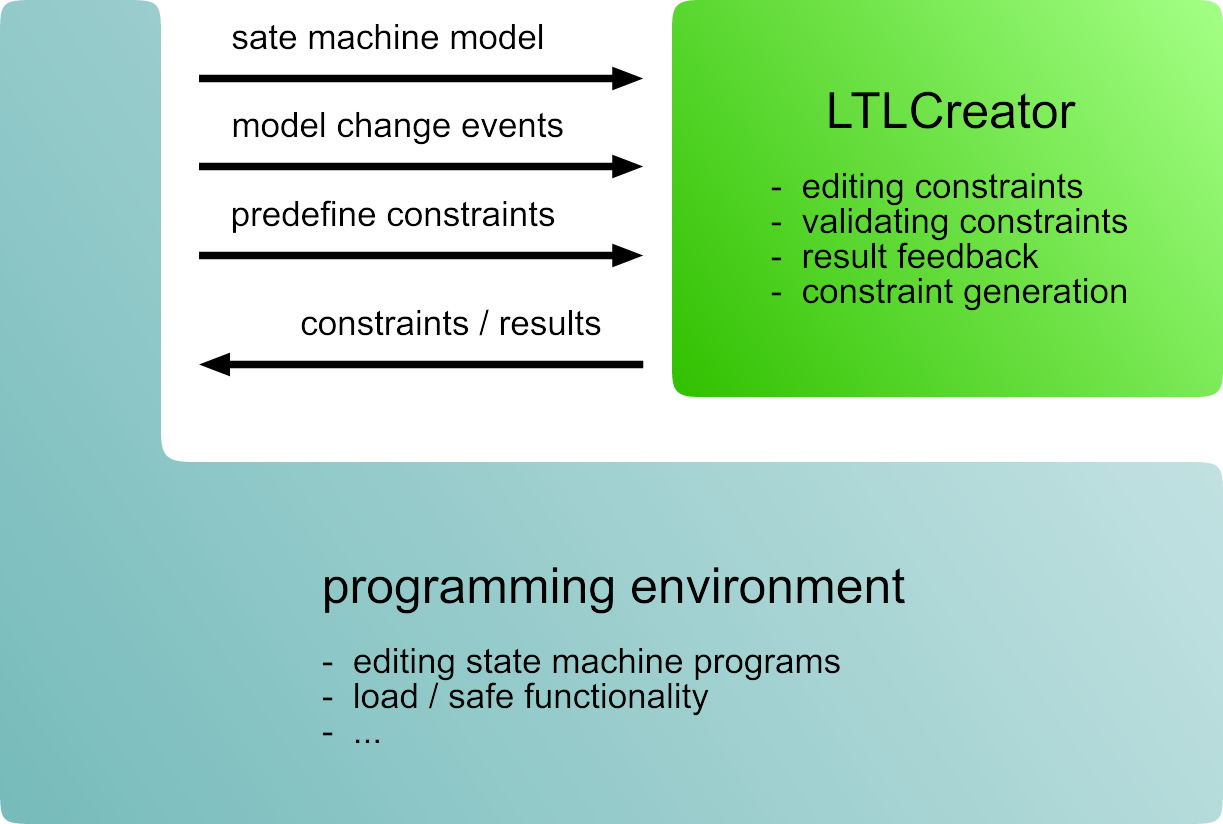
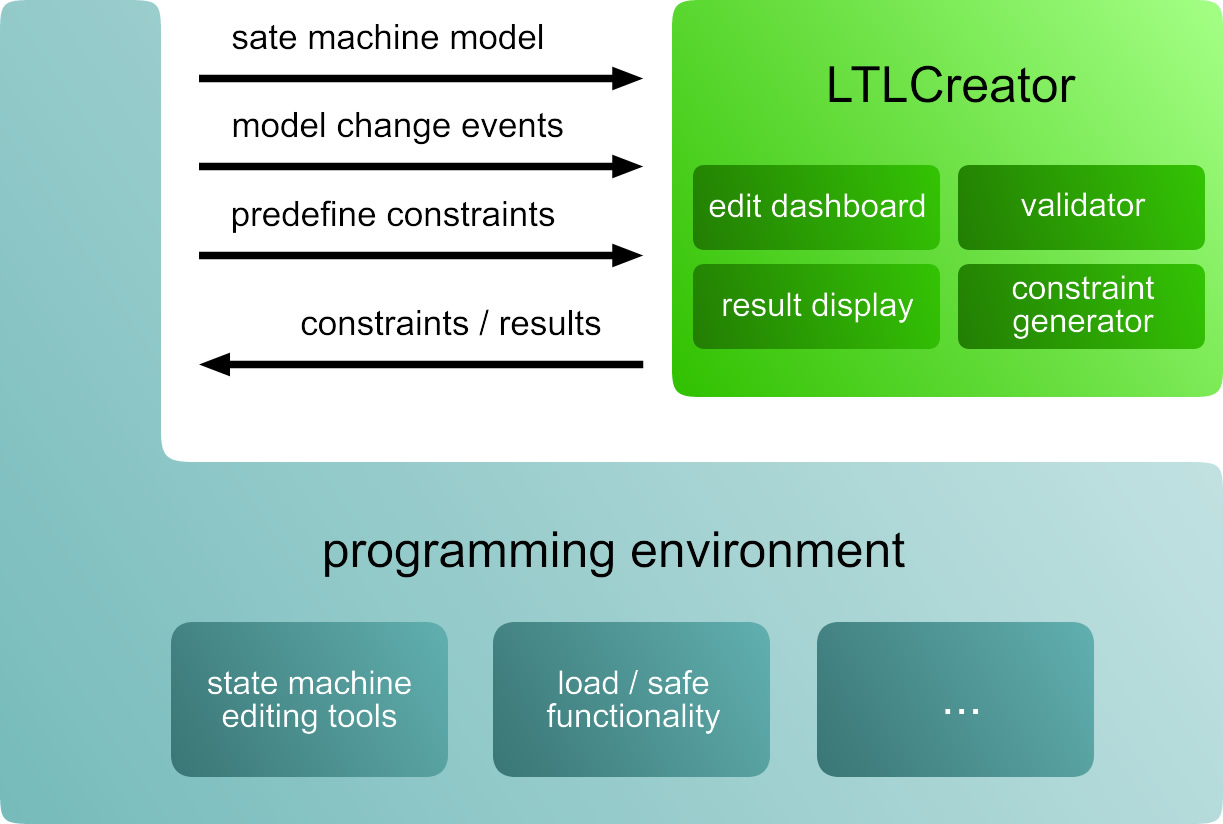
initial commit v2 ;)

Changed region(s): [[0.1243, 0.6371, 0.9011, 0.9405], [0.5593, 0.182, 0.9943, 0.4248], [0.6525, 0.0607, 0.9011, 0.1517]]

diff --git a/thesis/tex/5_design.tex b/thesis/tex/5_design.tex
@@ -24,7 +24,7 @@ In this chapter we introduce a first approach of a visual formalism and later st
 \section{Visual formalisms}
 \label{sec:visualformalisms}
 
-One main difficulty in finding a proper visual formalism was to glean the right level between abstraction and expressiveness since this two characteristics appeared to be mutually exclusive in some points. A first approach, so called template constraints, and its disadvantages are described in section~\ref{sec:templateconstraints}. Subsequently an improved design is presented, which tends to a more abstract direction.
+One main difficulty in finding a proper visual formalism is to glean the right level between abstraction and expressiveness since this two characteristics appeared to be mutually exclusive in some points. A first approach, so called template constraints, and its disadvantages are described in section~\ref{sec:templateconstraints}. Subsequently an improved design is presented, which tends to a more abstract direction.
 
 
 
@@ -316,10 +316,12 @@ All formulas can be translated to the visual formalism presented in section~\ref
 \label{sec:coalescence}
 
 Both features the visual language presented in section~\ref{sec:operatorconstraints} and the automated constraint generation in section~\ref{sec:automatedconstraintgeneration} shall be assembled in one tool, the LTLCreator. It shall provide a dashboart with the possibility to manage several constraints, such as a tab panel, and displays for indicating validation results. Besides a button is needed for triggering constraint generation.
-The LTLCreator should be available for other state machine based programming environments for integration.
+LTLCreator should be available for other state machine based programming environments for integration.
 The implementation as a java swing component and a clear API enables the tool for a wide range of use.
 
-Figure~\ref{fig:coalescence} points out how interaction between LTLCreator and programming environments where it is integrated in can be. The programming environment provides the state machine model and notifies the LTLCreator component about all changes made to the program. It will automatically revalidate all existing constraints and provide the up-to-date model for constraint generation.
+Figure~\ref{fig:coalescence} points out how interaction between LTLCreator and programming environments where it is integrated in can be.
+LTLCreator consists of a dashboard where constraints can be edited visually and an graphical output of validation results. The constraint generator as well as the validator are non UI parts of LTLCreator.
+The programming environment provides the state machine model and notifies the LTLCreator component about all changes made to the program. This will automatically revalidate all existing constraints and always provide the up-to-date model for constraint generation.
 For load and save functionality, all existing constraints can be received and new ones can be added to the LTLCreator component programmatically.
 
 \begin{figure}[htbp]
@@ -329,7 +331,6 @@ For load and save functionality, all existing constraints can be received and ne
   \label{fig:coalescence}
 \end{figure}
 
-TODO: NuSMV hier auch wichtig?
 
 
 
@@ -337,4 +338,4 @@ TODO: NuSMV hier auch wichtig?
 \section{Integration into Robostudio}
 \label{sec:integrationintorobostudio}
 
-Robostudio uses NetBeans as a platform, and all tools and features are organized in windows. Thus also the LTLCreator has to be put into a window and added to the Robostudio platform. Since the defining of safety constraints is an important part while developing service robot behavior, the LTLCreator window shall appear in the center of the platform.
+Robostudio uses NetBeans as a platform, and all tools and features are organized in windows. Thus also LTLCreator has to be put into a window and added to the Robostudio platform. Since the defining of safety constraints is an important part not only after but also during the process of developing service robot behavior, the LTLCreator window as a vital tool shall be placed in the center of the platform where currently also the UI Component Layout Editor Window is. As already proposed in the previous section, all changes to the state machine program made within robostudio must of course cause the LTLCreator window to revalidate all existing constraints.

diff --git a/thesis/tex/3_background.tex b/thesis/tex/3_background.tex
@@ -118,7 +118,7 @@ For this work the most important thing about the RBLD to remember is, that it ca
 
 \section{Robostudio}
 
-In the beginning all programming of the robot behavior was done by directly editing the XML code mentioned in the previous section by using a text editor. But huge code files and occasional code edits made further maintenance and change requests difficult up to impossible to realise. For this Chandan Datta, PhD student at the University of Auckland, developed a visual programming environment for developing robot behavior on top of RBDL: Robostudio~\cite{robostudio} allows to easily edit the program behavior on a visual layer and generates the corresponding program file containing the RBDL code fully automatically. This file can be downloaded to the robot and executed by the interpreter. Figure~\ref{fig:robostudio_proceeding} illustrates what the steps of robot behavior development are.
+In the beginning all programming of the robot behavior was done by directly editing the XML code mentioned in the previous section by using a text editor. But huge code files and occasional code edits made further maintenance and change requests difficult up to impossible to realise. For this reason Chandan Datta, PhD student at the University of Auckland, developed a visual programming environment for developing robot behavior on top of RBDL: Robostudio~\cite{robostudio} allows to easily edit the program behavior on a visual layer and generates the corresponding program file containing the RBDL code fully automatically. This file can be downloaded to the robot and executed by the interpreter. Figure~\ref{fig:robostudio_proceeding} illustrates what the steps of robot behavior development are.
 
 \begin{figure}[htbp]
   \centering
